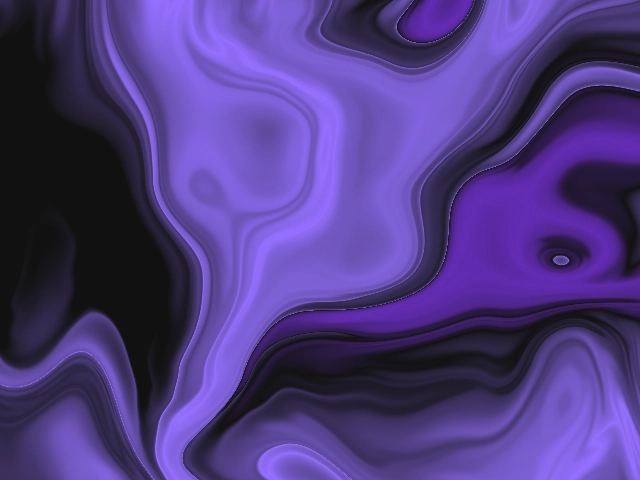
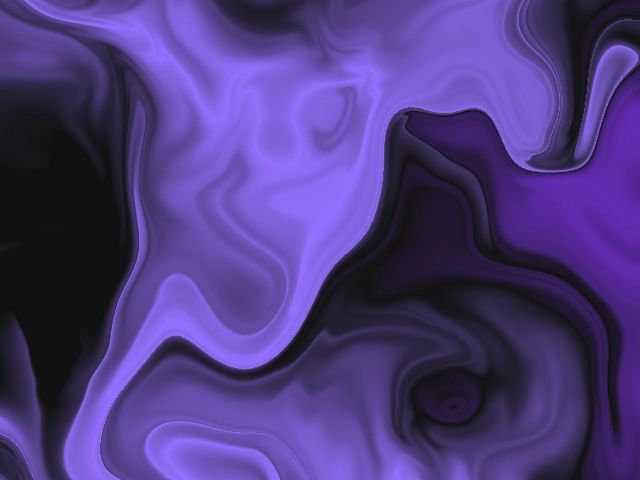
tweak warp and spiral

diff --git a/docs/src/app/test/app-thumbnails.ts b/docs/src/app/test/app-thumbnails.ts
@@ -1,5 +1,5 @@
 import { homeThumbnails } from '@/app/home-thumbnails';
-import { DotGrid, GrainGradient, Waves } from '@paper-design/shaders-react';
+import { DotGrid, GrainGradient, Spiral, Swirl, Waves } from '@paper-design/shaders-react';
 
 export const appThumbnails = homeThumbnails.map((item) => {
   if (item.ShaderComponent === DotGrid) {
@@ -19,6 +19,16 @@ export const appThumbnails = homeThumbnails.map((item) => {
       shaderConfig: {
         ...item.shaderConfig,
         spacing: 0.96,
+      },
+    };
+  }
+
+  if (item.ShaderComponent === Spiral) {
+    return {
+      ...item,
+      shaderConfig: {
+        ...item.shaderConfig,
+        scale: 0.35,
       },
     };
   }

diff --git a/docs/src/app/home-thumbnails.ts b/docs/src/app/home-thumbnails.ts
@@ -150,7 +150,7 @@ export const homeThumbnails = [
     url: '/warp',
     ShaderComponent: Warp,
     image: warpImg,
-    shaderConfig: { ...warpPresets[0].params, scale: 0.6, frame: 10000 },
+    shaderConfig: { ...warpPresets[0].params, scale: 0.6, frame: 118000 },
   },
   {
     name: 'spiral',
